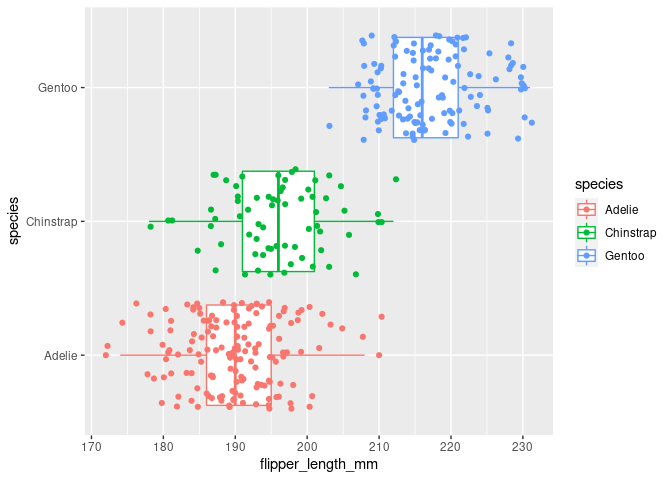
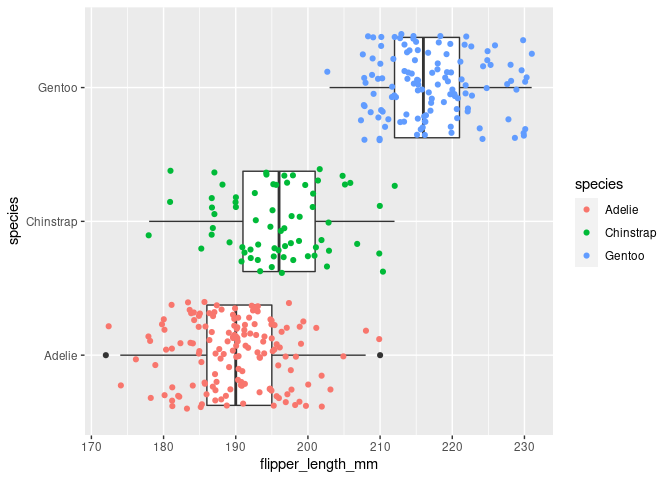
second checkpoint

diff --git a/activity02-ggplot2-intro.md b/activity02-ggplot2-intro.md
@@ -230,8 +230,7 @@ methods to try to create this plot. A hint, all `geom_*` have a
 ``` r
 ggplot(data = penguins, mapping = aes(x = flipper_length_mm, y = species,)) +
  geom_boxplot() +
-  geom_jitter ()+
-(mapping = aes(x = flipper_length_mm, y = species, color = species))
+  geom_jitter (mapping = aes(x = flipper_length_mm, y = species, color = species))
 ```
 
     ## Warning: Removed 2 rows containing non-finite values (stat_boxplot).
@@ -245,7 +244,8 @@ aesthetics mapped in the different layers. For example, how does having
 all of them mapped in the `ggplot` call compared to having these instead
 mapped in the `geom_boxplot` layer? Comment on what you notice.
 
-**Response**:
+**Response**: having it mapped in the ggplot will change the entire code
+while mapping it in the specific geom will only change that geom.
 
 Knit, then stage everything listed in your **Git** pane, commit (with a
 meaningful commit message), and push to your GitHub repo. Go to GitHub
